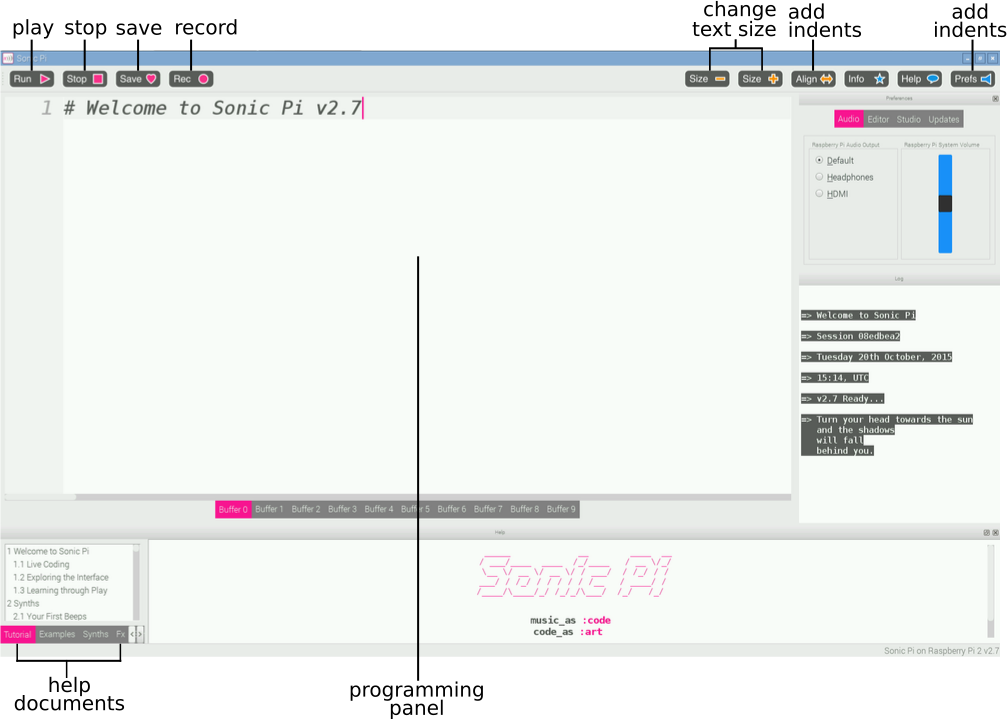
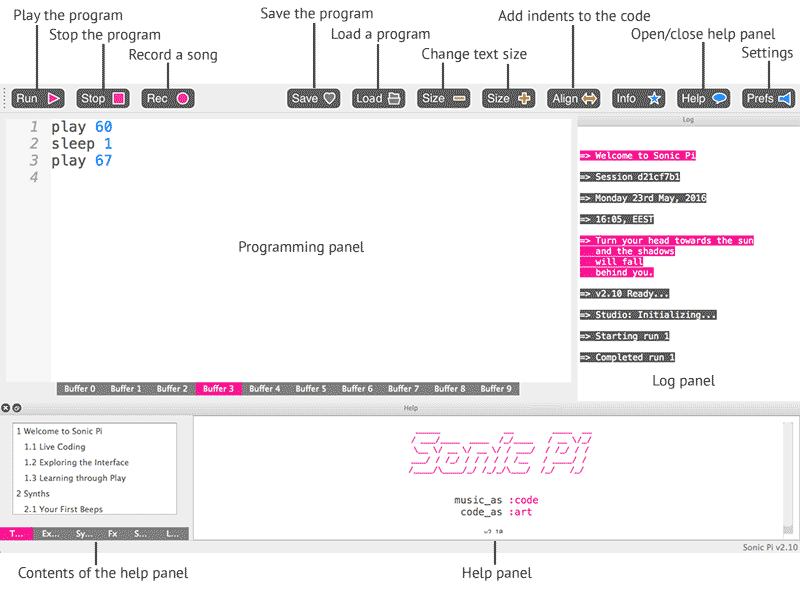
updated the sonic pi ui picture and fixed few mistakes

Changed region(s): [[0.0, 0.0, 1.0, 1.0]]

diff --git a/_exercises/en/01-introduction/01-introduction.md b/_exercises/en/01-introduction/01-introduction.md
@@ -5,7 +5,7 @@ lang: en
 layout: exercise
 ---
 
-Sonic Pi is an open-source programming environment, designed to explore and teach programming concepts through the process of creating new sounds. It's a free live coding synth for everyone. You can use code to compose and perform in classical and contemporary styles ranging from Canons to Dubstep.
+Sonic Pi is an open-source programming environment, designed to explore and teach programming concepts through the process of creating new sounds. It's a free live coding synth for everyone created by Sam Aaron at the University of Cambridge Computer Laboratory. You can use Sonic Pi to program, compose and perform in classical and contemporary styles ranging from Canons to Dubstep.
 
 This tutorial guides you through the basics and more of Sonic Pi. At the end of this tutorial you'll be able to create something like this:
 
@@ -15,15 +15,15 @@ Or something like this:
 
 {% include player.html filepath="/assets/audio/amen.mp3" %}
 
-Sonic Pi is all about exploring. There are no mistakes, there's only discoveries. And most of all, it's about having fun. So remember this: have fun, explore and hack away!
+Sonic Pi is all about exploring. There are no mistakes, there are only discoveries. And most of all, it's about having fun. So remember this: have fun, explore and hack away!
 
 ## Open Sonic Pi
 
-If you don't have Sonic Pi installed, go to <a href="http://sonic-pi.net/">sonic-pi.net</a>, download and install Sonic Pi.
+If you don't have Sonic Pi installed, go to <a href="http://sonic-pi.net/">sonic-pi.net</a>, download and install Sonic Pi. It is available for Windows, OS X and Linux operating systems. 
 
-Fire up Sonic Pi! Let's see how it looks like.
+Next, fire up Sonic Pi! Let's see how it looks like.
 
-This is the Sonic Pi interface; it has three main windows. The largest one is for writing your code, and we call it the Programming Panel. There is also an output panel that displays information about your program as it runs. When you click on the help button at the top of the window, the third panel appears along the bottom displaying help documentation. This contains information about different code you can try and use, as well as different synth sounds, samples, and much more.
+This is the Sonic Pi interface; it has three main windows. The largest one is for writing your code, and we call it the Programming Panel. There is also an log panel that displays information about your program as it runs. When you click on the help button at the top of the window, the third panel appears along the bottom displaying help documentation. This contains information about the language for programming Sonic Pi as well as different synth sounds, samples, and much more. There are also plenty of ready-to-go examples that you can try and use!
 
 <img src="{{ "/assets/img/interface.png" | prepend: site.baseurl}}">
 <p class="center"><small><i>Sonic Pi interface</i></small></p>
@@ -46,4 +46,4 @@ Now try to write `pley 60` and click run. What happens?
 
 The numbers you used are _MIDI notes_. MIDI is a useful way to compose and is a useful tool for quickly 
 testing your notes and adjusting them by lowering their value (making your note lower) or increasing it, (making 
-the pitch higher). Sonic Pi is familiar with both MIDI numbers and traditional musical notation.
+the pitch higher). Sonic Pi is familiar with both MIDI note numbers (values between `0` and `127`) and traditional musical notation (such as `:C4`, `:Eb3` or `:G5`).

diff --git a/_exercises/en/01-introduction/02-play-a-melody.md b/_exercises/en/01-introduction/02-play-a-melody.md
@@ -13,7 +13,7 @@ play 67
 play 69
 {% endhighlight %}
 
-That didn't sound like a melody, did it? Instead of playing a sequence, Sonic Pi played all the notes at once (that's how you can write chords).
+That didn't sound like a melody, did it? Instead of playing a sequence, Sonic Pi played all the notes at once (and that's how you can actually write chords).
 
 If you want Sonic Pi to play each note in a sequence, you have to tell the software to take a break every now and then. Try typing in `sleep 1` underneath each note, like this:
 
@@ -30,13 +30,13 @@ play 69
 <img src="{{ "/assets/img/Notes_EN.png" | prepend: site.baseurl }}"> 
 <img src="{{ "/assets/img/Rests_en.png" | prepend: site.baseurl }}">
 
-You can write the notes in MIDI (67, 80, 22) or in musical notes (:G4, :Ab5, :Bb), it's up to you. Here's a chart displaying notes and MIDI values:
+As mentioned before, you can write the notes in MIDI (`67`, `80`, `22`) or in musical notes (`:G4`, `:Ab5`, `:Bb`), it's up to you. Here's a chart displaying notes and corresponding MIDI values:
 
 <img src="{{ "/assets/img/midi_notes.png" | prepend: site.baseurl }}">
 
 ## Try it out
 
-Use C-major notes (`72, 74, 76, 77, 79, 81, 83` or `:C5 :D5 :E5 :F5 :G5 :A5 :B5`) to create a melody. Use `sleep` with different values to vary the rhythm. You can use `use_bp` in the beginning to make your tune faster or slower. Here's an example:
+Use C-major notes (`72, 74, 76, 77, 79, 81, 83` or `:C5 :D5 :E5 :F5 :G5 :A5 :B5`) to create a melody. Use `sleep` with different values to vary the rhythm. You can use `use_bpm` in the beginning to make your tune faster or slower. The acronym BPM stands for _Beats Per Minute_. Here's an example:
 
 {% highlight ruby %}
 use_bpm 120
